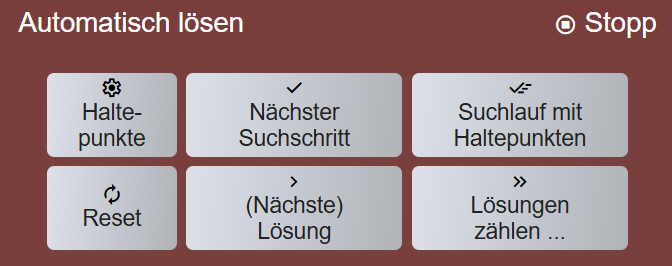
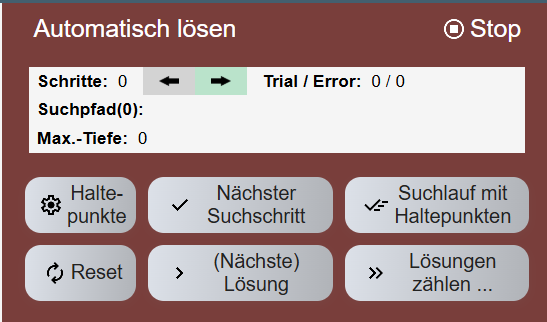
v1.9.69

diff --git a/index.html b/index.html
@@ -99,7 +99,7 @@
                         <span>Manuell lösen</span>
                         <button class="btn-run modern-btn-inline" id="btn-run">
                             <img title="play_circle" src="images/play_circle_24.png" class="automatic-btn-image">
-                            Automatisch
+                            Solver start
                         </button>
                     </div>
                     <div class="manual-btn-body-block" id="manual-btn-body-block">
@@ -174,7 +174,7 @@
                         <span> Automatisch lösen</span>
                         <button class="btn-backtrack-stop modern-btn-inline" id="btn-backtrack-stop">
                             <img title="stop" src="images/stop_circle_24.png" class="automatic-btn-image">
-                            Stop
+                            Solver stop
                         </button>
                     </div>
                     <div class="tracker-dashboard" id="tracker-dashboard">

diff --git a/sw.js b/sw.js
@@ -9,7 +9,7 @@ var APP_PREFIX = 'sudo_';
 // you need to change this version (version_01, version_02…). 
 // If you don't change the version, the service worker will give your
 // users the old files!
-var VERSION = 'version_1.9.68';
+var VERSION = 'version_1.9.69';
 
 // The files to make available for offline use. make sure to add 
 // others to this list

diff --git a/CSS/screen.css b/CSS/screen.css
@@ -2175,6 +2175,7 @@ Für Text: color: #222; oder color: #424242;
     .tracker-dashboard {
         margin: 0.6rem 0.2rem;
         height: auto;
+        border-radius: 1rem;
     }
 
     #loader,

diff --git a/JS/sudokuCommon.js b/JS/sudokuCommon.js
@@ -1,5 +1,5 @@
 let sudoApp;
-let VERSION = 'v1.9.68';
+let VERSION = 'v1.9.69';
 
 // ==========================================
 // Basic classes

diff --git a/help.md b/help.md
@@ -11,8 +11,8 @@ layout: default
    3. [Jeder Lösungsschritt mit zwei Subschritten](#jeder-lösungsschritt-mit-zwei-subschritten)
    4. [Die Taste Menu](#die-taste-menu)
    5. [Die Taste Teilen](#die-taste-teilen)
-   6. [Der Tastenblock 'Manuell Lösen'](#der-tastenblock-manuell-lösen)
-   7. [Der Tastenblock 'Automatisch Lösen'](#der-tastenblock-automatisch-lösen)
+   6. [Der Tastenblock 'Manuell lösen'](#der-tastenblock-manuell-lösen)
+   7. [Der Tastenblock 'Automatisch lösen'](#der-tastenblock-automatisch-lösen)
    8. [Puzzle kopieren und einfügen via Clipboard](#puzzle-kopieren-und-einfügen-via-clipboard)
    9. [Die Puzzle-Datenbank](#die-puzzle-datenbank)
       1. [Operationen der Datenbank](#operationen-der-datenbank)
@@ -59,7 +59,7 @@ layout: default
 
 Viele Menschen haben Spass daran, Sudoku-Puzzles zu lösen, die sie in der Zeitung finden. Nicht nur Sudoku-Anfängern kann es passieren,
 dass sie bei der Lösungssuche steckenbleiben. Egal, ob eine fertige Lösung am Folgetag in der Zeitung zu finden ist, oder ob ein 
-konventioneller Sudoku-Solver die Lösng präsentiert, Du bleibst ratlos zurück mit der Frage: Wie hätte ich diese Lösung finden können?
+konventioneller Sudoku-Solver die Lösung präsentiert, Du bleibst ratlos zurück mit der Frage: Wie hätte ich diese Lösung finden können?
 
 Der vorliegende Explorer präsentiert nicht nur die fertige Lösung sondern auch einen Schritt-für-Schritt-Weg hin zur Lösung. Jeder Schritt wird erläutert. Wenn Du viele Male den Lösungsweg des Explorers beobachtet hast, wirst Du beim Lösen der Puzzles besser werden. 
 
@@ -147,12 +147,12 @@ Der Spieler kann sich bei der Lösungssuche unterstützen lassen, indem er in de
 ## Zwei Spielphasen
 
  ![Eingeben](./imagesHelp/define.png)
-  Der Phasenschalter in der Position **Puzzle eingeben**. Das Schalten in diese Position versetzt den Solver in die Puzzle-Definitionsphase. In dieser Phase überträgt man das zu lösende Puzzle, sprich die Givens des Puzzles, in den Explorer. Nach der Initialisierung ist diese Phase automatisch esetzt.       
+  Der Phasenschalter in der Position **Puzzle eingeben**. Das Schalten in diese Position versetzt den Solver in die Puzzle-Definitionsphase. In dieser Phase überträgt man das zu lösende Puzzle, sprich die Givens des Puzzles, in den Explorer. Nach der Initialisierung ist diese Phase automatisch gesetzt.       
 
  ![Lösen](./imagesHelp/play.png)
  Der Phasenschalter in der Position **Puzzle lösen**. Das Schalten in diese Position versetzt den Explorer in die Lösungsphase. Gleichzeitig ermittelt der Explorer den Schwierigkeitsgrad des eingegebenen Puzzles. Die Lösungsphase kann manuell oder automatisch durchgeführt werden. Wird die automatische Ausführung gestartet, wird diese Schalterposition automatisch gesetzt. |
 
-Hinweis: Gegebene Nummern, die Givens - dies sind blaue Nummern - können in der Lösungsphase nicht gelöscht werden. Falls Givens gelöscht werden sollen, muss man zuvor den Phasenschalter in die Position 'Eingeben' schieben.
+Hinweis: Gegebene Nummern, die Givens - dies sind blaue Nummern - können in der Lösungsphase nicht geändert oder gelöscht werden. Falls Givens gelöscht werden sollen, muss man zuvor den Phasenschalter in die Position 'Eingeben' schieben.
 
 ## Jeder Lösungsschritt mit zwei Subschritten
 
@@ -191,7 +191,7 @@ Soll eine Nummern-Setzung zurückgenommen werden, muss die betroffene Zelle sele
 
 Die Sudoku-Explorer-App ist eine Progressive Web App (PWA). Wie eine native App kann sie daher Inhalte, in unserem Fall ein Puzzle-File, mit anderen Apps teilen, z.B. mit WhatsApp oder einer EMAIL-App. Auf dem PC startet bei Doppel-Click auf diese Datei die Sudoku-App. Auf dem Android-SmartPhone ist dies leider noch nicht möglich.
 
-## Der Tastenblock 'Manuell Lösen'
+## Der Tastenblock 'Manuell lösen'
 
 <figure>
    <img src="./imagesHelp/tastenauswahlManual.png" alt="Tastenblock manuell" style="max-width:100%">
@@ -241,7 +241,7 @@ Siehe [Bei Bedarf ein Tipp](#bei-bedarf-ein-tipp).
 **Taste: Automatisch.**
 Die Taste "Automatisch" startet den automatischen Solver der App.
 
-## Der Tastenblock 'Automatisch Lösen'
+## Der Tastenblock 'Automatisch lösen'
 
 <figure >
    <img src="./imagesHelp/tastenBlockAutomatic.png" alt="Tastenblock Automatisch" style="width:100%">

diff --git a/README.md b/README.md
@@ -1,6 +1,6 @@
-# Sudoku Trainer Installation
+# Sudoku Explorer Installation
 
-Technisch gesehen ist der [Sudoku-Trainer](https://hubertbertling.github.io/sudokuSolver/) eine progressive Web-App (PWA). Als solche besitzt er eine URL. Für die Installation benötigt man lediglich diese URL. Moderne Browser erkennen an der Manifest-Datei im Startverzeichnis, dass es sich um eine installierbare PWA handelt. In der URL-Zeile zeigen sie die Möglichkeit der Installation an durch einen Installations-Button oder Ähnliches.  
+Technisch gesehen ist der [Sudoku-Explorer](https://hubertbertling.github.io/sudokuSolver/) eine progressive Web-App (PWA). Als solche besitzt er eine URL. Für die Installation benötigt man lediglich diese URL. Moderne Browser erkennen an der Manifest-Datei im Startverzeichnis, dass es sich um eine installierbare PWA handelt. In der URL-Zeile zeigen sie die Möglichkeit der Installation an durch einen Installations-Button oder Ähnliches.  
 
 Die Installation ist sehr einfach: einfach den Dialogen folgen. Betriebssystemseitig verhält sich die App wie eine native App. Sie kann daher wie eine native App auch wieder deinstalliert werden.
 
